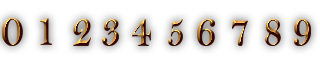
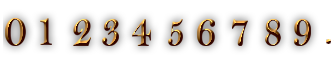
タイマーを小数点表示

diff --git a/Solution/App/Timer.cpp b/Solution/App/Timer.cpp
@@ -31,11 +31,20 @@ void Timer::draw( ) const {
 	const int u[ ] = { 0, 1, 2, 3, 4, 5, 6, 7, 8, 9 };
 	int picth = 0;
 	int time = _timer / FPS;
-
+	{
+		Drawer::Sprite sprite( Drawer::Transform( x, y, u[ ( _timer % FPS ) / 6 ] * TW, 0, TW, TH, x + TW, y + TH ), GRAPH_TIMER_NUM );
+		drawer->setSprite( sprite );
+	}
+	{
+		picth += TW / 2;
+		Drawer::Sprite sprite( Drawer::Transform( x - picth, y, 10 * TW, 0, TW / 2, TH, x - picth + TW / 2, y + TH ), GRAPH_TIMER_NUM );
+		drawer->setSprite( sprite );
+		picth += TW;
+	}
 	while ( time > 0 ) {
 		Drawer::Sprite sprite( Drawer::Transform( x - picth, y, u[ time % 10 ] * TW, 0, TW, TH, x - picth + TW, y + TH ), GRAPH_TIMER_NUM );
 		drawer->setSprite( sprite );
-		picth += 50;
+		picth += TW;
 		time /= 10;
 		
 		if ( time == 0 ) {
